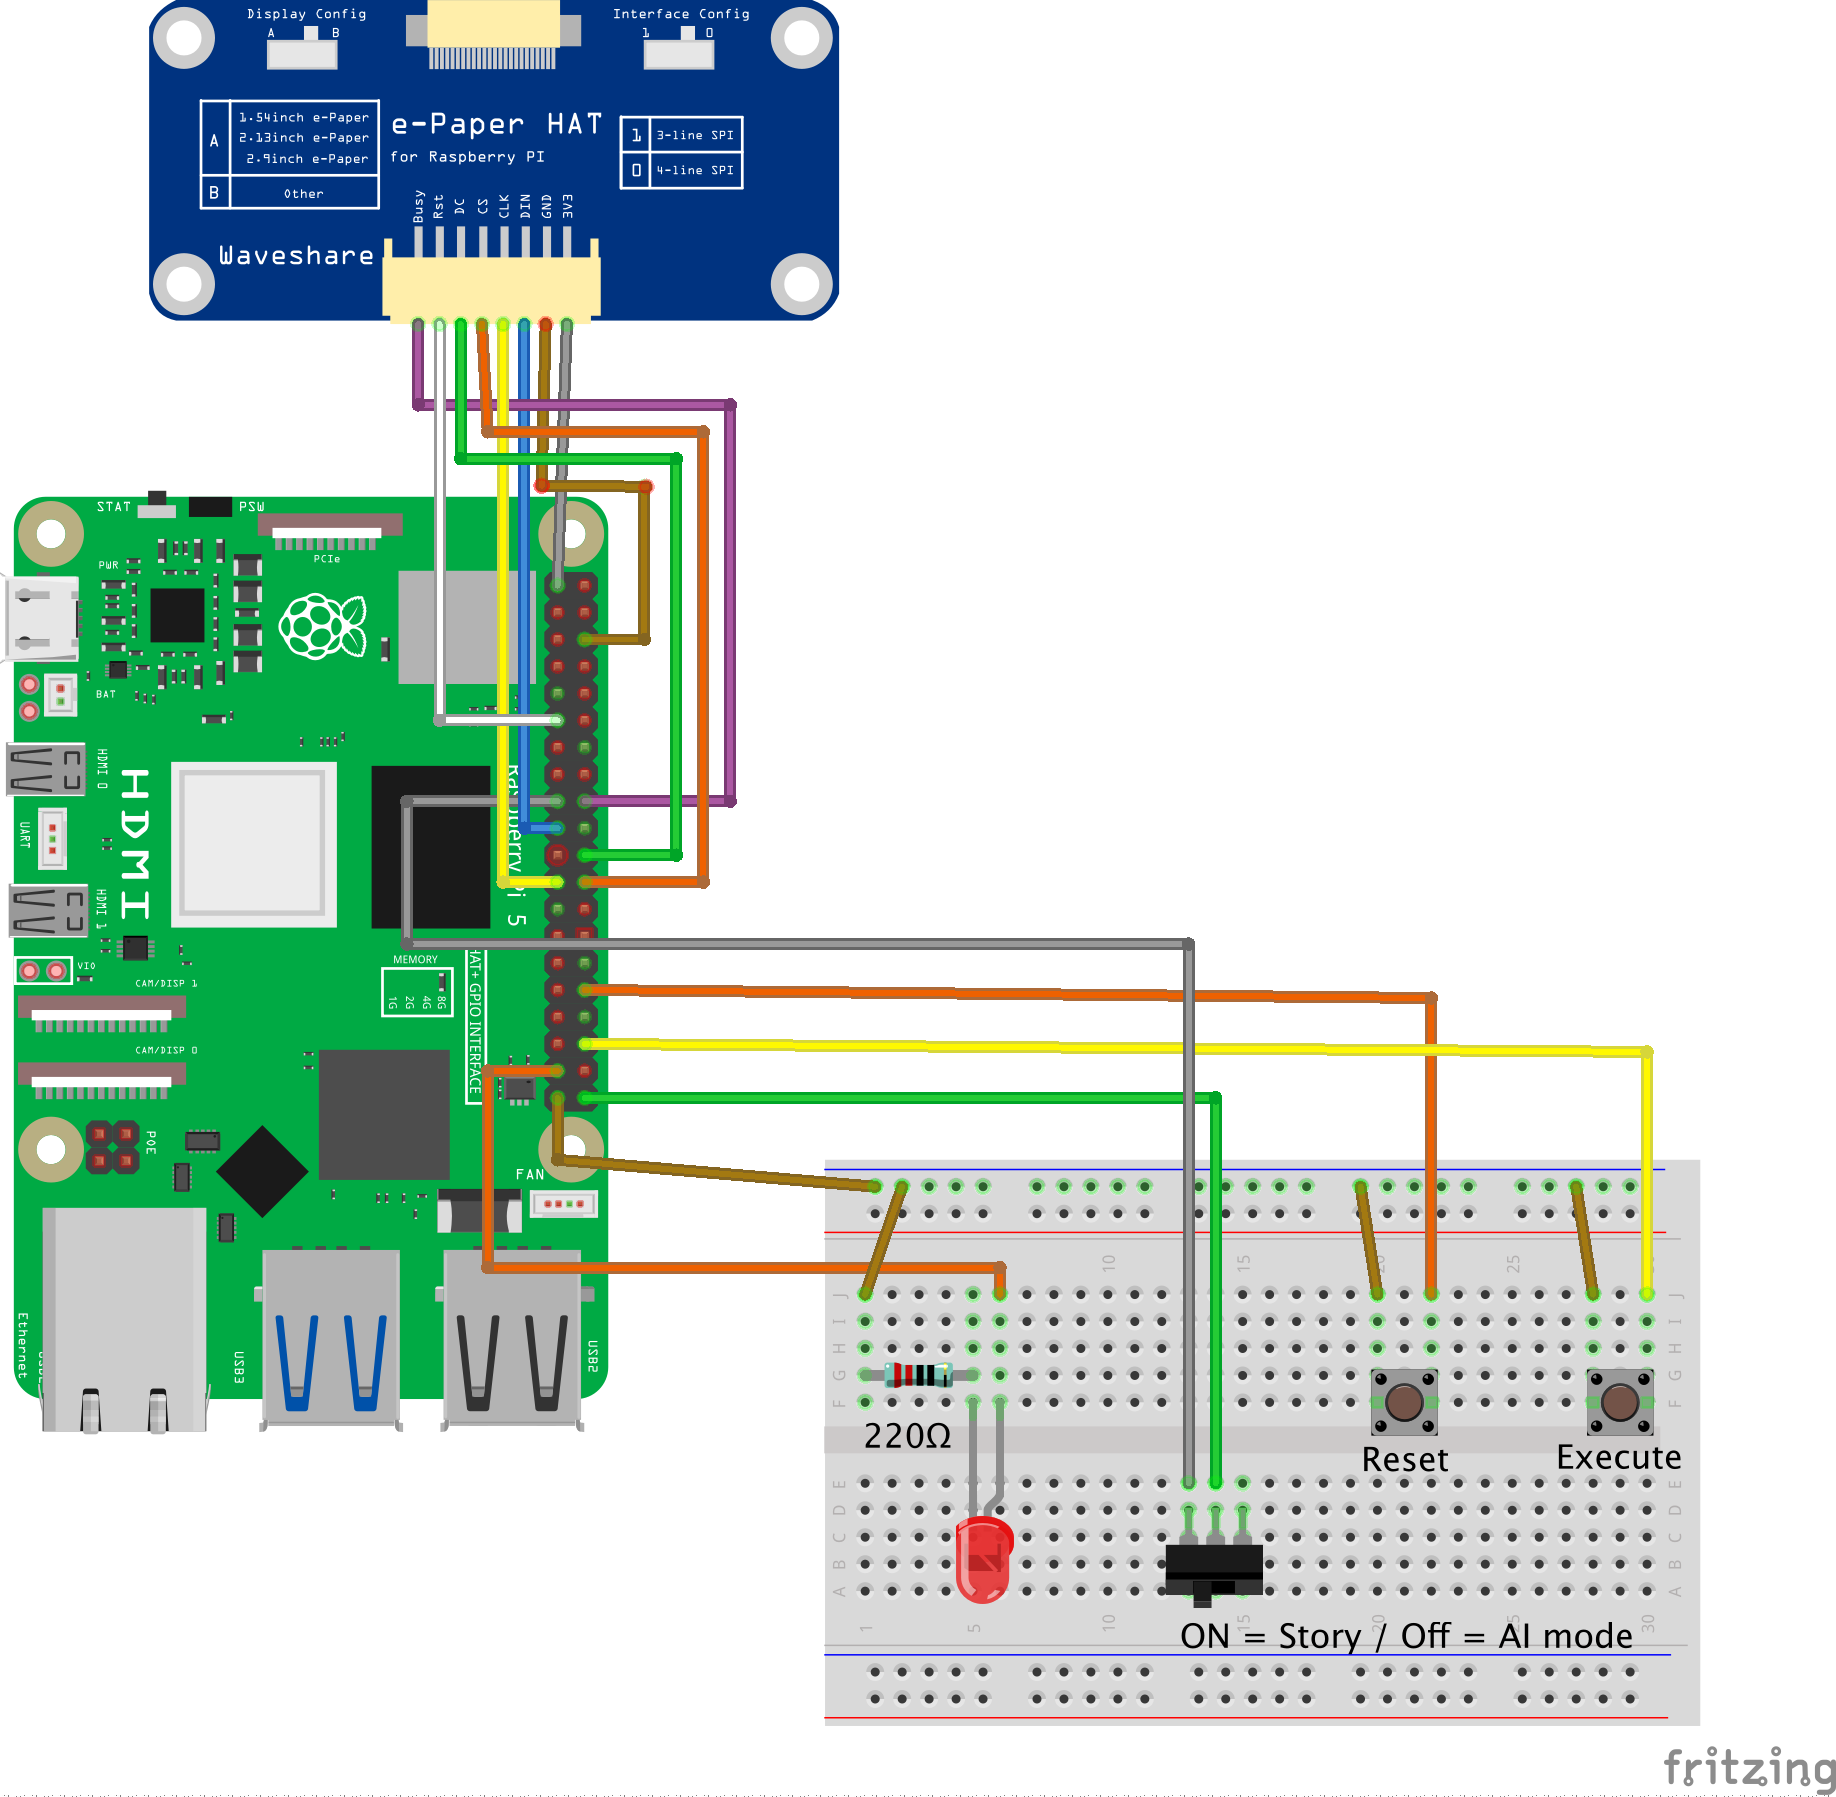
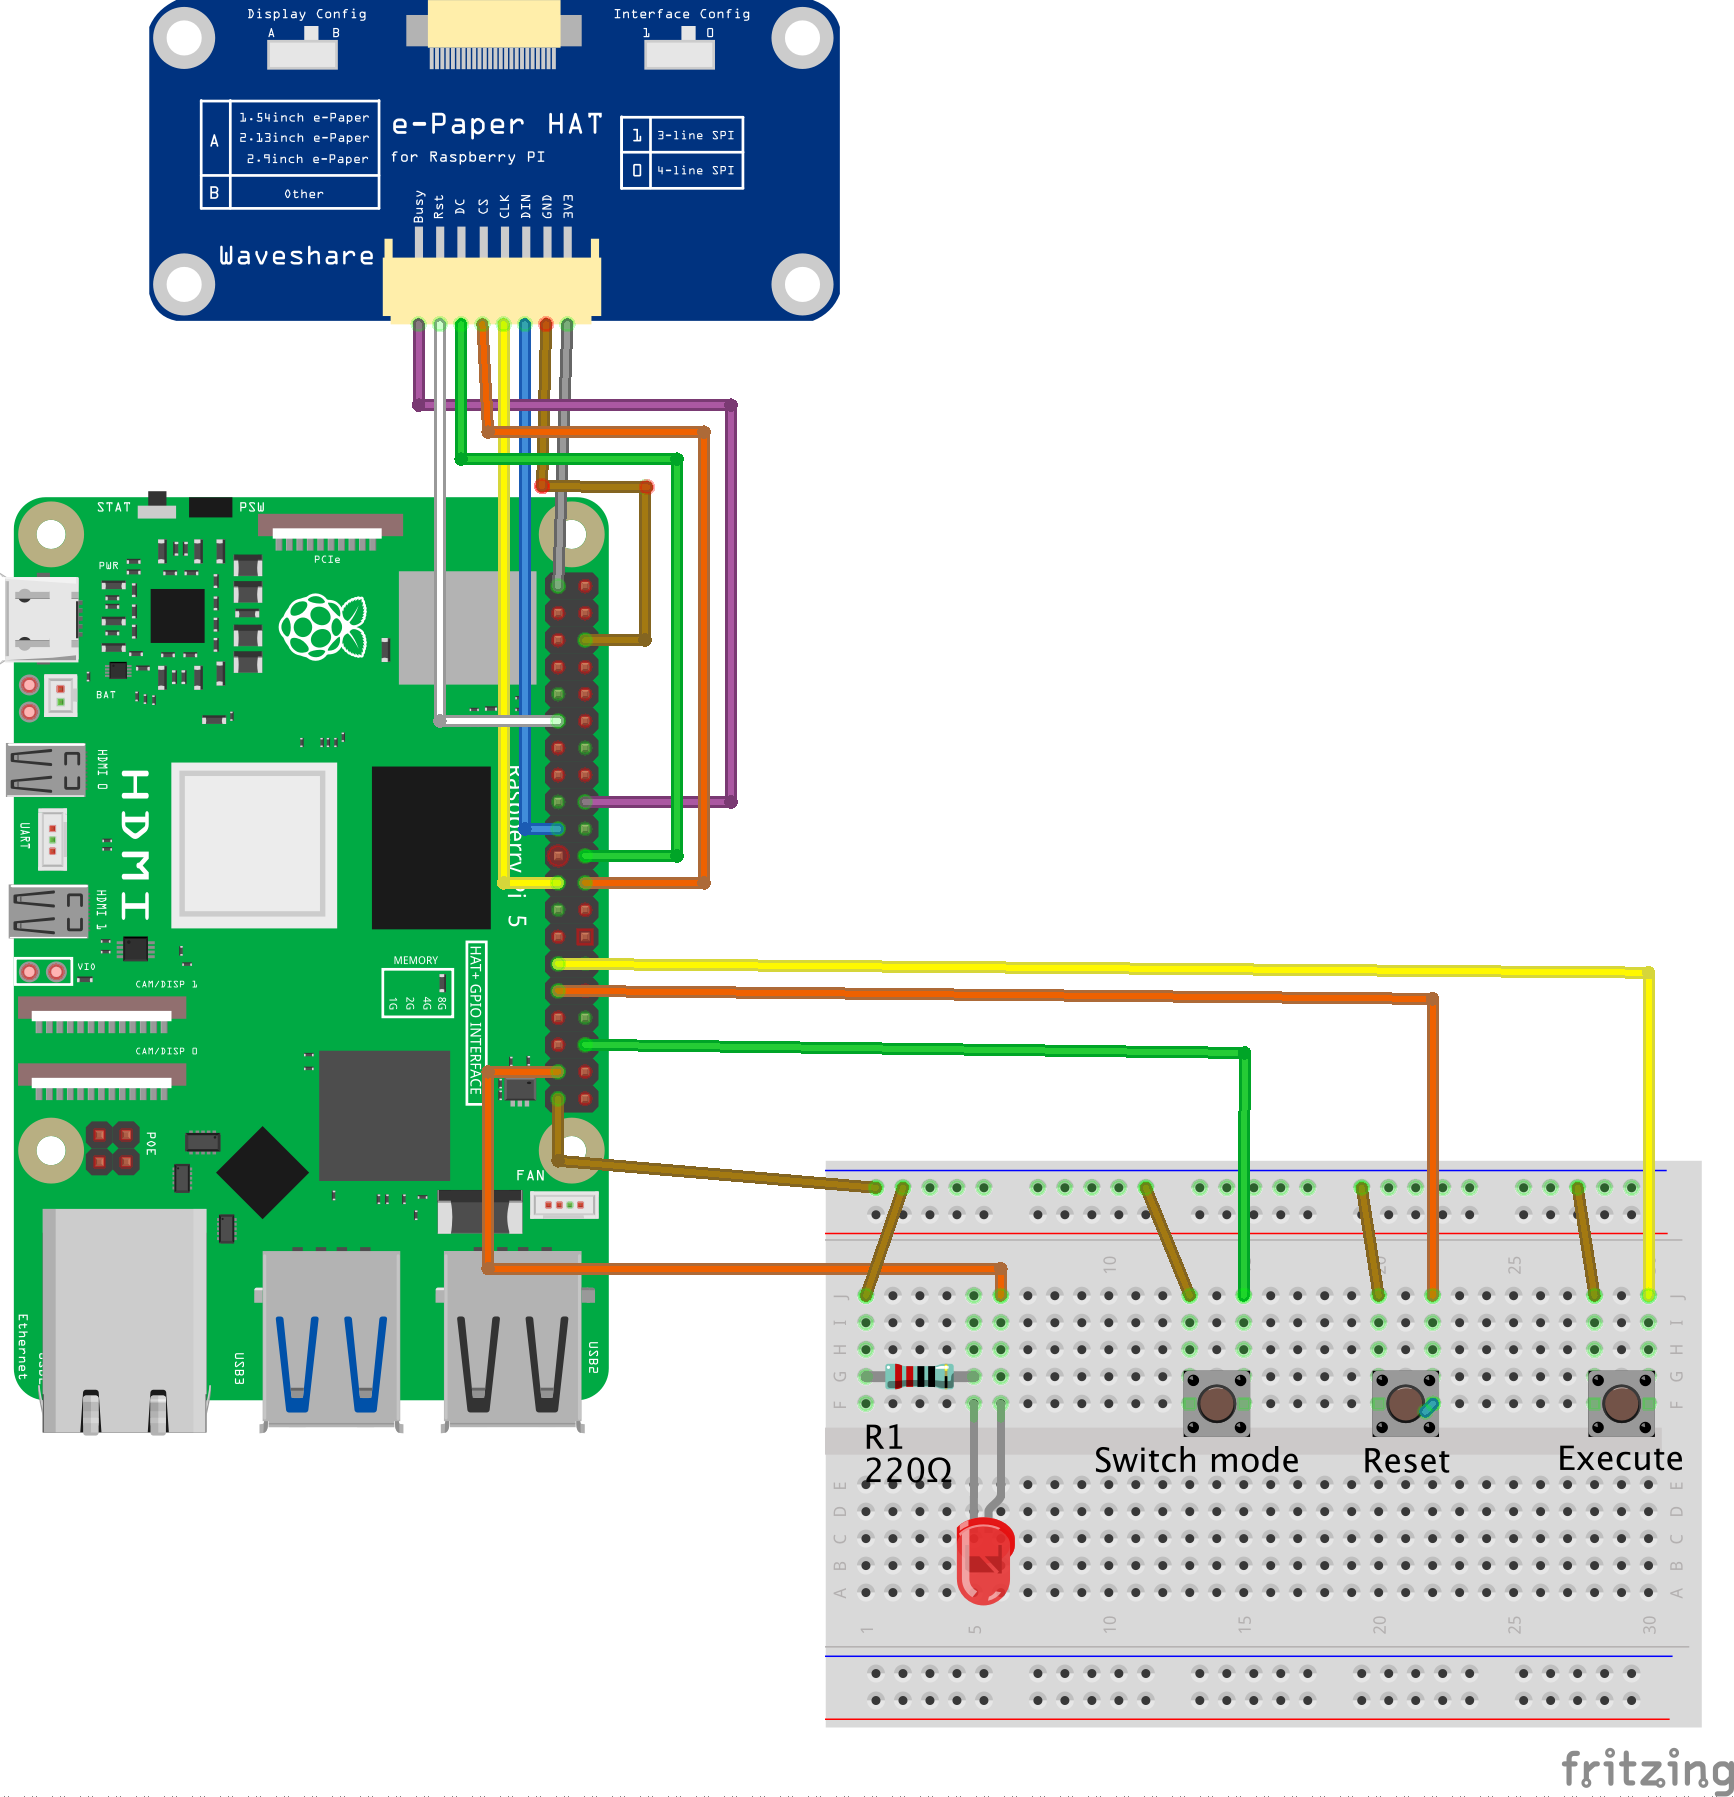
switched to Pimoroni inkyImpression

Changed region(s): [[0.0, 0.0, 1.0, 1.0], [0.0, 0.6856, 0.0311, 0.7791]]

diff --git a/hadistory.py b/hadistory.py
@@ -40,7 +40,8 @@ GPT_model = "gpt-4o-mini" # most capable GPT model and optimized for chat.  You 
 openai.api_key = ""
 
 # Display
-DISPLAY_TYPE = "waveshare_epd.epd5in65f" # Set to the name of your e-ink device (https://github.com/robweber/omni-epd#displays-implemented)
+#DISPLAY_TYPE = "waveshare_epd.epd5in65f" # Set to the name of your e-ink device (https://github.com/robweber/omni-epd#displays-implemented)
+DISPLAY_TYPE = "inky.impression"
 DISPLAY_RESOLUTION = (448, 600)
 
 # Ollama API
@@ -97,14 +98,16 @@ epd = displayfactory.load_display_driver(DISPLAY_TYPE)
 
 GPIO.setmode(GPIO.BCM) # use GPIO numbering for buttons
 
-execute_pin = 16 #pin for the button execute
+execute_pin = 5 #pin for the button execute
 GPIO.setup(execute_pin, GPIO.IN, pull_up_down=GPIO.PUD_UP)
 
-reset_pin = 12 #pin for the button reset
+reset_pin = 6 #pin for the button reset
 GPIO.setup(reset_pin, GPIO.IN, pull_up_down=GPIO.PUD_UP)
 
-switch_pin = 21 #pin for the switch
-GPIO.setup(switch_pin, GPIO.IN, pull_up_down=GPIO.PUD_DOWN)
+#switch_pin = 21 #pin for the switch
+#GPIO.setup(switch_pin, GPIO.IN, pull_up_down=GPIO.PUD_DOWN)
+change_mode_pin = 16 #pin for the change_mode_button
+GPIO.setup(change_mode_pin, GPIO.IN, pull_up_down=GPIO.PUD_UP)
 
 led_pin = 26 #pin for the led execute
 GPIO.setup(led_pin, GPIO.OUT)
@@ -112,6 +115,7 @@ GPIO.output(led_pin, GPIO.LOW)
 
 previous_reset_state = True
 previous_execute_state = True
+previous_switch_mode_state = True
 
 ############## ##############################################################################
 ############## Functions
@@ -466,7 +470,21 @@ def rapid_blink():
         time.sleep(0.1)
         i = i+1
 
+def five_short_burst():
+    for i in range(1, 5):
+        GPIO.output(led_pin, GPIO.HIGH)
+        time.sleep(0.4)
+        GPIO.output(led_pin, GPIO.LOW)
+        time.sleep(0.4)
+        i = i+1
 
+def three_long_burst():
+    for i in range(1, 3):
+        GPIO.output(led_pin, GPIO.HIGH)
+        time.sleep(1)
+        GPIO.output(led_pin, GPIO.LOW)
+        time.sleep(1)
+        i = i+1
 
 
 ##### ############## ##############################################################################
@@ -504,6 +522,7 @@ if __name__ == '__main__':
         if (ONLINE_MODE):
             client = OpenAI(api_key=openai.api_key)
 
+        switch_state = False #Start with AI mode
         print("\nWaiting for button press...")
         GPIO.output(led_pin, GPIO.HIGH)
 
@@ -511,8 +530,9 @@ if __name__ == '__main__':
             try:
                 input_state_execute = GPIO.input(execute_pin)
                 input_state_reset = GPIO.input(reset_pin)
-                switch_state = GPIO.input(switch_pin)
+                #switch_state = GPIO.input(switch_pin)
                 #switch_state = False # False for AI, True for Story mode
+                input_state_switch_mode = GPIO.input(change_mode_pin)
 
                 if input_state_execute == False and switch_state == False: # AI Mode
                     if(previous_execute_state):
@@ -574,9 +594,21 @@ if __name__ == '__main__':
                             # Saving where we are in the stories
                             with open(SETTINGS_FILE, 'w') as f:
                                 f.write(json.dumps({'current_page': current_page, 'chosen_story': chosen_story}))
+                elif (input_state_switch_mode == False):
+                    if(previous_switch_mode_state):
+                        switch_state = not switch_state
+                        if (switch_state == True):
+                            print("Switching to local story mode.")
+                            five_short_burst()
+                        else:
+                            print("Switching to local AI mode.")
+                            three_long_burst()
+                        GPIO.output(led_pin, GPIO.HIGH)
+
 
                 previous_reset_state = input_state_reset
                 previous_execute_state = input_state_execute
+                previous_switch_mode_state = input_state_switch_mode
                 time.sleep(0.1)
 
             except openai.APIError as e:
@@ -592,41 +624,23 @@ if __name__ == '__main__':
 
             except openai.RateLimitError as e:
                 print("\nYou have hit your assigned rate limit.")
-                #voice(RATE_LIMIT_ERROR[lang])
                 event.set()
                 time.sleep(3)
                 rapid_blink()
-                #GPIO.output(led1_pin, GPIO.LOW)
-                #GPIO.output(led2_pin, GPIO.LOW)
-                #recorder.stop()
-                #o.delete
-                #recorder = None
                 break
 
             except openai.APIConnectionError as e:
                 print("\nI am having trouble connecting to the API.  Please check your network connection and then try again.")
-                #voice(API_CONNECTION_ERROR[lang])
                 event.set()
                 time.sleep(3)
                 rapid_blink()
-                #GPIO.output(led1_pin, GPIO.LOW)
-                #GPIO.output(led2_pin, GPIO.LOW)
-                #recorder.stop()
-                #o.delete
-                #recorder = None
                 time.sleep(1)
 
             except openai.AuthenticationError as e:
                 print("\nYour OpenAI API key or token is invalid, expired, or revoked.  Please fix this issue and then restart my program.")
-                #voice(API_AUTHENTICATION_ERROR[lang])
                 event.set()
                 time.sleep(3)
                 rapid_blink()
-                #GPIO.output(led1_pin, GPIO.LOW)
-                #GPIO.output(led2_pin, GPIO.LOW)
-                #recorder.stop()
-                #o.delete
-                #recorder = None
                 break
 
     except KeyboardInterrupt:

diff --git a/README.md b/README.md
@@ -14,7 +14,8 @@ Based on storybook : [tvldz's storybook](https://github.com/tvldz/storybook). Th
   - The OpenAI version works really well on RPi Zero 2W with a nice form factor. Adding an UPS makes it a good travelling companion, especially with pre-savec stories in case of no internet connection
 - [Inky Impression 5.7"](https://shop.pimoroni.com/products/inky-impression-5-7) or [Waveshare 7 color 5.65"](https://www.waveshare.com/5.65inch-e-paper-module-f.htm). Code can be modified to support other resolutions. 
 - SD Card. 32GB is probably the minimum. Use a bigger one to support experimenting with multiple models and installing desktop components if desired.
-- 2 buttons, 1 switch, 1 LED and a 220 Ohms resistors
+- 3 buttons, 1 LED and a 220 Ohms resistors
+  - the project makes use of the InkyImpression buttons embedded in the display (pre-configured pins for buttons are those of the InkyImpression screen)
 
 ## Use
 Execute main.py: `python3 hadistory.py`, or enable autostart of the project.
@@ -22,7 +23,7 @@ The project has two modes :
 - `Story mode` where the script will chose a story from `stories/` subfolders at random and goes through each page in order, after each press, It takes approx. 35s to show an image on RPi5
 - `AI mode`, an AI mode where the script will use stable diffusion and ollma-infered model to creat a one page novel story, with execution taking ~18 minutes on a pi5 and ~40min on a RPi2. 
 
-A switch (or simply grounding the switch pin) allows to switch from one mode to the other.
+A button allows to switch from one mode to the other.
 
 The LED act as a status indicator : the LED is fully lit when waiting for button press, and fading regularly when generating a story. 
 
@@ -134,6 +135,7 @@ subprocess.run([SD_LOCATION, '--xl', '--turbo', '--rpi', '--models-path', SD_MOD
  pip3 install git+https://github.com/robweber/omni-epd.git#egg=omni-epd
  ```
   Configure screen in `main.py`, with the variable `DISPLAY_TYPE`. Note that omni-epd uses `omni-epd.ini` as a config file, see its contents for options
+    - if using the InkyImpression, you might need to add `dtoverlay=spi0-0cs` to  `/boot/firmware/config.txt`, to avoid the following error `Chip Select: (line 8, GPIO8) currently claimed by spi0 CS0`. See this link : [Github pimoroni inky #202](https://github.com/pimoroni/inky/issues/202)
   
   - Note that there is an issue with the RPi.GPIO library required by omni-epd or waveshare libraries on the **RPi 5**. Raspberry Pi OS Bookworm includes a pre-installed 'RPi.GPIO' which is not compatible with Bookworm on a Pi. One option is to use a drop-in replacement which should work :
  ```bash
@@ -153,8 +155,23 @@ subprocess.run([SD_LOCATION, '--xl', '--turbo', '--rpi', '--models-path', SD_MOD
   - In order to force only one mode, change the line `switch_state = GPIO.input(switch_pin)`, to either :
     - `switch_state = False` for AI mode
     - `switch_state = True` for Story mode
-    
-13. Personnalize prompts used to generate stories by modifying `prompts/prompts.txt` as explained in the previous section.
+    and commenting the code block managing the mode switching :
+    ```python
+        elif (input_state_switch_mode == False):
+            if(previous_switch_mode_state):
+                switch_state = not switch_state
+                if (switch_state == True):
+                    print("Switching to local story mode.")
+                    five_short_burst()
+                else:
+                        print("Switching to local AI mode.")
+                        three_long_burst()
+                GPIO.output(led_pin, GPIO.HIGH)
+    ```
+13. When switching, the led will show the current mode depending on how it blinks :
+   - Five short burst : Story mode
+   - Three long burst : AI mode
+14. Personnalize prompts used to generate stories by modifying `prompts/prompts.txt` as explained in the previous section.
 
 ### Full pinout of project
 
@@ -176,10 +193,10 @@ The RPi 5 pin out is as follows :
 * Enable SPI interface
 
 #### Details of LED and buttons connections
-The project uses a LED as a status indicator, a button to trigger the creation of a story, a button to reset current story and a switch to go form . The corresponding GPIO pin can be customised in `main.py` with the variables `button_pin` and `led_pin`. By default they are to be wired as follows :
-- *button execute* : GPIO 16 (pin 36) and Ground (pin 39) for example
-- *button reset* : GPIO 12 (pin 32) and Ground (pin 39) for example
-- *switch* : GPIO 21 (pin 40) and 3v3 (pin 1 or 17) for example
+The project uses a LED as a status indicator, a button to trigger the creation of a story, a button to reset current story and a switch to go from local or Ai mode . The corresponding GPIO pin can be customised in `main.py` with the variables `button_pin` and `led_pin`. By default they are to be wired as follows, which corresponds to the InkyImpre :
+- *button execute* : GPIO 5 (pin 29) and Ground (pin 30) for example
+- *button reset* : GPIO 6 (pin 31) and Ground (pin 30) for example
+- *button switch mode* : GPIO 16 (pin 36) and Ground pin (pin 34) for example
 - *Led* : with a 220 Ohms resistor, to GPIO 26 (pin 37) and Ground (pin 39) for example
 
 ### Running on startup
